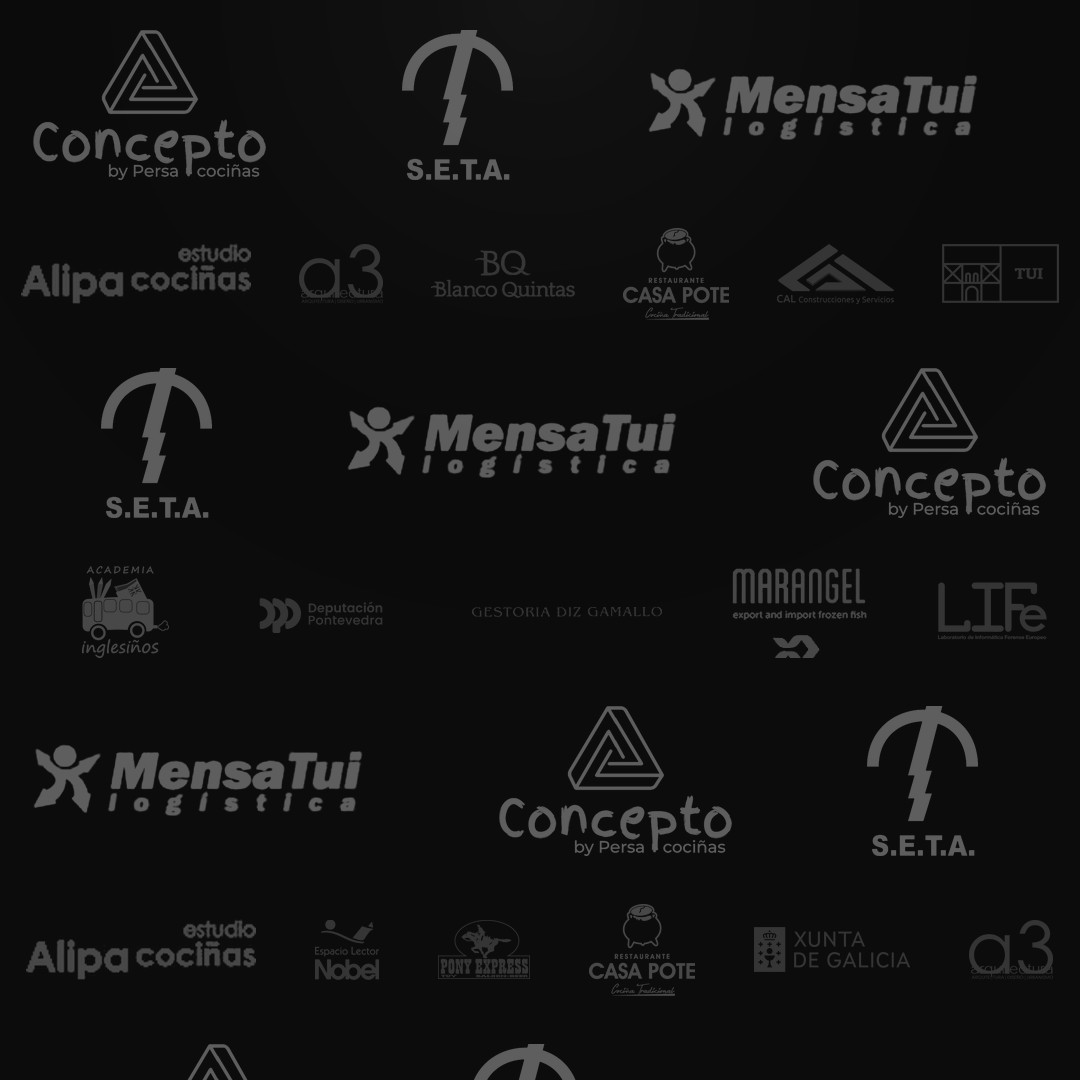
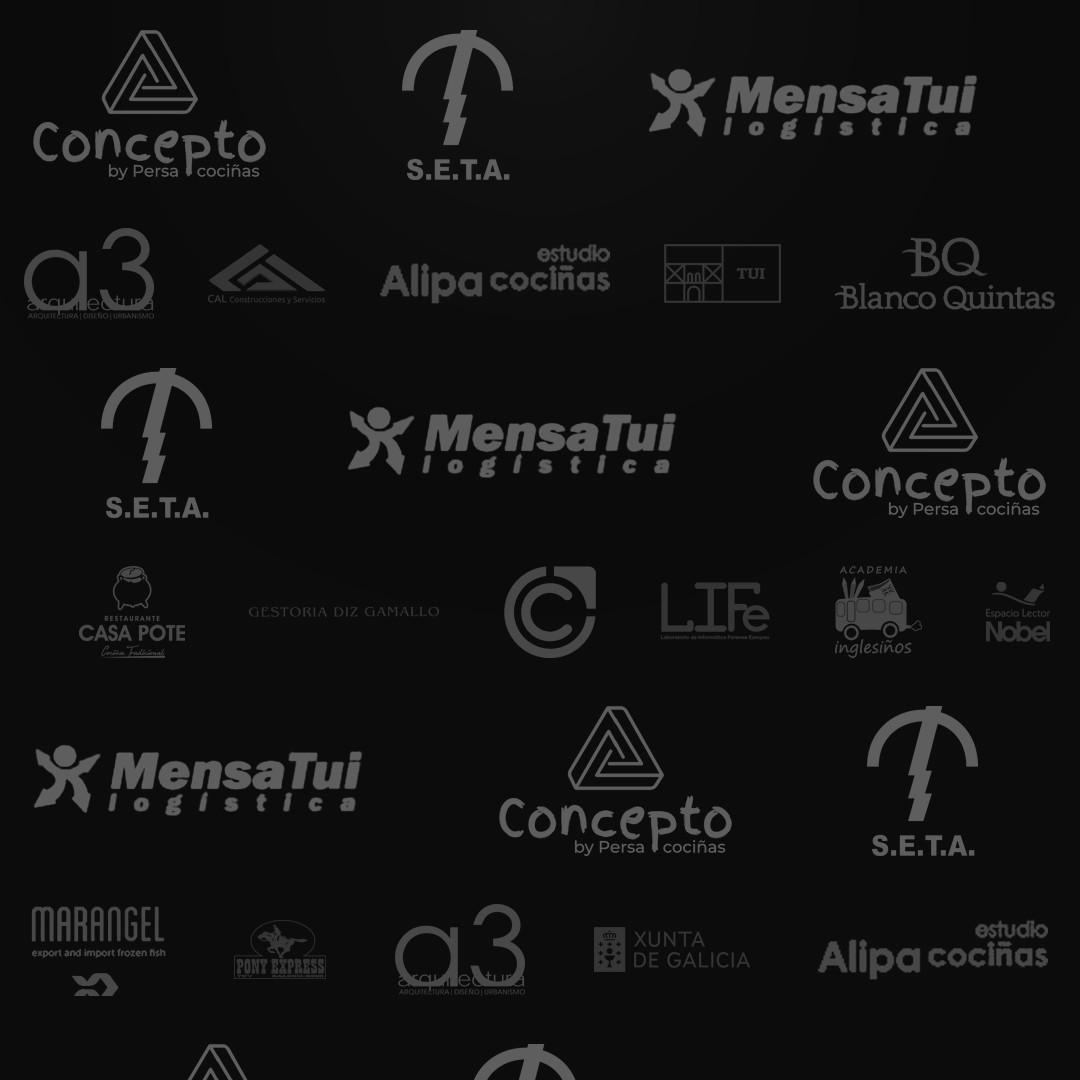
Fondo Patrocinadores: a3 arquitectura, Blanco Quintas y Maderas Porriño pasan al segundo nivel
Claude-Session: https://claude.ai/code/session_01LSsBt1nY3gxtfDe6KPnHg3

diff --git a/tools/patrocinadores/fondo.py b/tools/patrocinadores/fondo.py
@@ -1,5 +1,6 @@
 # Fondo «Patrocinadores» del panel (photocall). Logos en blanco en logos/: el número delante es el nivel
-# (1 = principales: Concepto by Persa, S.E.T.A., MensaTui; 2 = Casa Pote, Marangel, Alipa, Inglesiños, Cluber; 3 = resto).
+# (1 = principales: Concepto by Persa, S.E.T.A., MensaTui; 2 = Casa Pote, Marangel, Alipa, Inglesiños, Cluber,
+# a3 arquitectura, Blanco Quintas, Maderas Porriño; 3 = resto).
 # Para cambiar patrocinadores: añadir o quitar PNG blancos con fondo transparente en logos/ y ejecutar python3 tools/patrocinadores/fondo.py
 import os, itertools
 from PIL import Image, ImageDraw, ImageFilter
@@ -36,7 +37,7 @@ def fondo(W,H,path):
             y+=rh+int(48*k)
         else:
             # fila mezclada: segundos y resto
-            rh=int(CFG[2][0]*k); x=int((20 if row%4==1 else 70)*k); pat=[2,3,3,2,3,3]
+            rh=int(CFG[2][0]*k); x=int((20 if row%4==1 else 70)*k); pat=[2,3,2,3,2,3]
             items=[]
             for t in itertools.cycle(pat):
                 name,im=next(t2) if t==2 else next(t3); im=fit(im,t,k)
